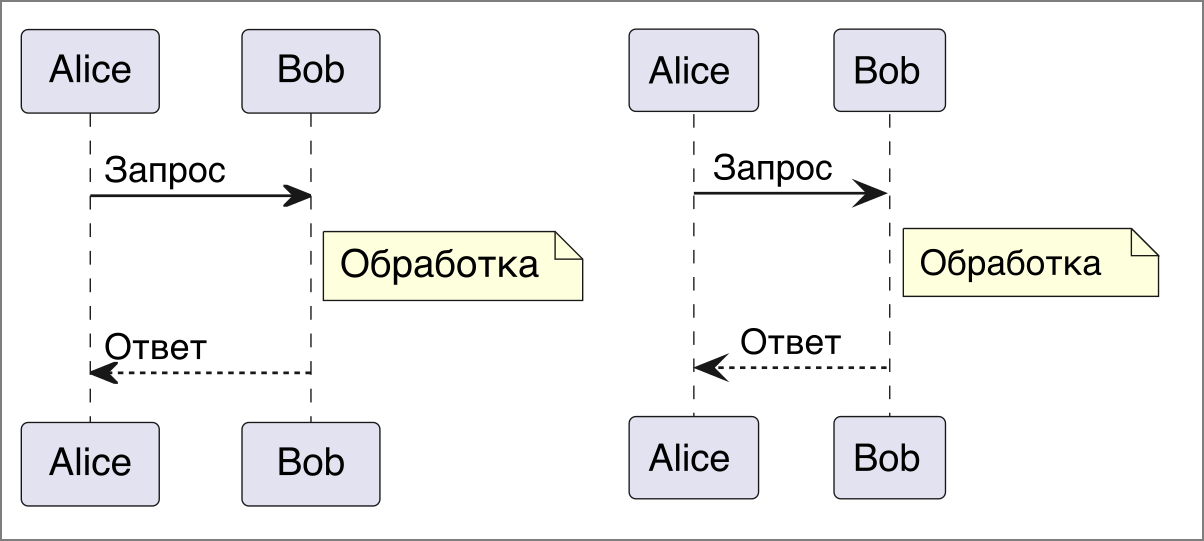
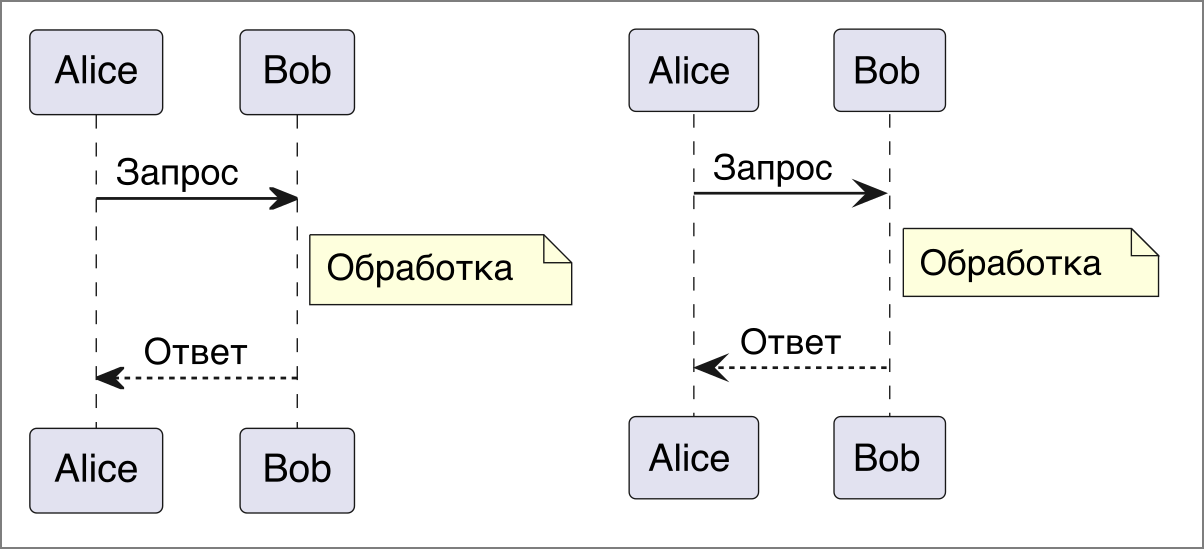
fix(sequence): рамки участников, поля, зазор и подписи сообщений
Сверка с ЖИВЫМ сервером: перезапросил все 20 эталонов, 18 совпали
побайтово, 2 отличались — и ровно в textLength нелатинских подписей
(«создаёт» 46.541 против 54.539, «☑ true» 33.182 против 45.732). Пять
повторных запросов дали одно и то же значение, совпадающее с нашим
расчётом: при снятии эталонов сервер не измерил эти глифы. Эталоны
перезапрошены.

Рамка участника ВСЕГДА равна «ширина текста + 14» — проверено на сервере
от одной буквы (23.58) до длинного кириллического имени (229.76).
Формула брала max(50, ...), поэтому Bob получал 50 вместо 41.057, а от
ширины рамки зависели и позиции линий жизни.

Левое поле 7 при внутреннем отступе движка 10 сдвигало viewBox на 3 и
уводило всё содержимое влево; теперь поля равны отступу.

Зазор между участниками: эталон держит 10 (проверено на сервере двумя
длинными именами и сообщением из одной буквы), у нас был порог 30 —
шаг в sequence_participants выходил 103.17 вместо 100.261.

Подписи сообщений: отступ 7 у стрелки слева направо и 17 у обратной —
наконечник занимает 10, подпись начинается за ним.

Текст примечания — кегль 13, а не тема 14. Подписи фигурных участников
смещены на 3 влево от оси, кружок boundary — на 8.5 вправо.

Baseline обновлён осознанно: gantt 1→0, json 2→0, sequence_simple 1→0,
sequence_fragments 3→2, сняты лишние подписи у er/gantt/object.
Выросли sequence_notes и sequence_participants — это запас холста,
а не геометрия: PlantUML добавляет справа 10, 16, 20 и 30 px в четырёх
[…]

diff --git a/crates/plantuml-renderer/src/svg_renderer.rs b/crates/plantuml-renderer/src/svg_renderer.rs
@@ -15,6 +15,22 @@ const FRAGMENT_BORDER: &str = "#000";
 /// Цвет заливки заголовка фрагмента в эталоне PlantUML.
 const FRAGMENT_HEADER_FILL: &str = "#EEE";
 
+/// Смещение кружка граничного элемента вправо от линии жизни.
+const BOUNDARY_CIRCLE_SHIFT: f64 = 8.5;
+
+/// Смещение подписи фигурного участника влево от его оси.
+const PARTICIPANT_ICON_LABEL_SHIFT: f64 = 3.0;
+
+/// Отступ подписи сообщения от левого конца стрелки.
+const MESSAGE_LABEL_INSET: f64 = 7.0;
+
+/// Длина наконечника стрелки: на столько подпись отодвигается от
+/// левого конца, если наконечник стоит именно слева.
+const MESSAGE_ARROW_HEAD: f64 = 10.0;
+
+/// Насколько подпись сообщения поднята над линией.
+const MESSAGE_LABEL_RISE: f64 = 5.0;
+
 /// Цвет начального и конечного узлов UML (PlantUML пишет `#222`, а не
 /// цвет границы темы: эталоны `activity_basic` и `state_simple` дают
 /// `fill="#222" stroke="#222"`).
@@ -250,7 +266,11 @@ impl SvgRenderer {
         /// на 206.125 при общей высоте 218, то есть поля 10 сверху и
         /// 11.875 снизу. Прежний профиль брал общие 7 — отсюда
         /// недобор высоты на 8 у всех sequence-диаграмм.
-        const SEQUENCE: (f64, f64, f64, f64) = (7.0, 10.0, 7.0, 11.875);
+        /// ЛЕВОЕ и ВЕРХНЕЕ поля равны внутреннему отступу движка (10):
+        /// только тогда `viewBox` начинается с нуля и рамка первого
+        /// участника стоит на x=10, как в эталоне. Прежние 7 сдвигали
+        /// содержимое на 3px влево — на картинке это заметно.
+        const SEQUENCE: (f64, f64, f64, f64) = (10.0, 10.0, 10.879, 11.875);
 
         /// ACTIVITY: измерено по эталону `activity_basic`.
         ///
@@ -299,7 +319,7 @@ impl SvgRenderer {
             // Снизу запас больше: подписи времени описываются
             // прямоугольником высотой в кегль НАД базисом, а у эталона
             // холст учитывает ещё и вынос строки под базисом (около 17).
-            Some("TIMING") => (7.0, 7.0, 12.0, 30.0),
+            Some("TIMING") => (7.0, 7.0, 12.0, 29.0),
             _ => DEFAULT,
         }
     }
@@ -1330,8 +1350,11 @@ impl SvgRenderer {
         } else {
             bottom - PARTICIPANT_LABEL_BASELINE_GAP
         };
+        // Подпись фигурных участников PlantUML смещает на 3 влево от оси:
+        // эталон `sequence_participants` даёт центр «Database» на 553.089
+        // при линии жизни 556.089 (у участника-рамки смещения нет).
         let text = svg::node::element::Text::new(label)
-            .set("x", cx)
+            .set("x", cx - PARTICIPANT_ICON_LABEL_SHIFT)
             .set("y", label_y)
             .set("text-anchor", "middle")
             .set("font-family", theme.font_family.as_str())
@@ -1504,6 +1527,10 @@ impl SvgRenderer {
         };
         let bracket_top = circle_cy - PARTICIPANT_ICON_RADIUS;
         let bracket_bottom = circle_cy + PARTICIPANT_ICON_RADIUS;
+        // Кружок сдвинут ВПРАВО от линии жизни: эталон
+        // `sequence_participants` даёт центр на 263.807 при линии 255.307,
+        // то есть +8.5, а перекладина доходит до его левого края.
+        let boundary_cx = cx + BOUNDARY_CIRCLE_SHIFT;
 
         let mut group = group;
         group = group.add(
@@ -1516,7 +1543,7 @@ impl SvgRenderer {
                         top = fmt(bracket_top),
                         bottom = fmt(bracket_bottom),
                         mid = fmt(circle_cy),
-                        left_of_circle = fmt(cx - PARTICIPANT_ICON_RADIUS),
+                        left_of_circle = fmt(boundary_cx - PARTICIPANT_ICON_RADIUS),
                     ),
                 )
                 .set("fill", "none")
@@ -1525,7 +1552,7 @@ impl SvgRenderer {
         );
         group = group.add(
             svg::node::element::Ellipse::new()
-                .set("cx", cx)
+                .set("cx", boundary_cx)
                 .set("cy", circle_cy)
                 .set("rx", PARTICIPANT_ICON_RADIUS)
                 .set("ry", PARTICIPANT_ICON_RADIUS)
@@ -1850,14 +1877,21 @@ impl SvgRenderer {
                 let text_x = points[0].x + 5.0;
                 (text_x, mid_y, "start")
             } else if is_horizontal {
-                // Горизонтальная стрелка (sequence diagrams)
+                // Горизонтальная стрелка (sequence diagrams).
+                //
+                // Отступ подписи от левого конца разный: у стрелки слева
+                // направо 7, у обратной — 17, потому что там наконечник
+                // занимает 10 и подпись начинается за ним. Эталон
+                // `sequence_simple`: «Authentication Request» на 40.833
+                // (33.833 + 7), «Authentication Response» на 50.833
+                // (33.833 + 17).
                 let is_left_to_right = dx > 0.0;
                 let left_x = if is_left_to_right {
-                    points[0].x + 5.0
+                    points[0].x + MESSAGE_LABEL_INSET
                 } else {
-                    points[1].x + 5.0
+                    points[1].x + MESSAGE_LABEL_INSET + MESSAGE_ARROW_HEAD
                 };
-                let top_y = points[0].y - 5.0;
+                let top_y = points[0].y - MESSAGE_LABEL_RISE;
                 (left_x, top_y, "start")
             } else {
                 // Fallback: середина первого сегмента

diff --git a/crates/plantuml-layout/src/sequence/engine.rs b/crates/plantuml-layout/src/sequence/engine.rs
@@ -17,7 +17,9 @@ const SELF_MESSAGE_LOOP_HEIGHT: f64 = 13.0;
 /// Отступ от петли self-message до текста сообщения.
 const SELF_MESSAGE_TEXT_GAP: f64 = 5.0;
 
-/// Цвет фона заметки в PlantUML.
+/// Кегль текста примечания (эталон `sequence_notes`: `font-size="13"`).
+const NOTE_FONT_SIZE: f64 = 13.0;
+
 /// Отступ текста примечания от левого края рамки.
 ///
 /// Измерено по эталону `sequence_notes`: рамка на x = 110.987,
@@ -729,8 +731,15 @@ impl SequenceLayoutEngine {
         // раздувало ширину: PlantUML отводит под стрелку примерно
         // `текст + 20`, и при 50 зазор всегда упирался в минимум.
         // 30 оставляет место между блоками, но не искажает раскладку.
-        let min_spacing = 30.0;
-        let mut spacing: Vec<f64> = vec![min_spacing; n - 1];
+        // Минимальный ЗАЗОР между рамками соседних участников.
+        //
+        // Проверено на сервере: два длинных имени и сообщение из одной
+        // буквы дают рамки 150.40 и 166.70 с зазором ровно 10.
+        let min_gap = 10.0;
+        // Начинаем с минимального зазора: требования сообщений только
+        // УВЕЛИЧИВАЮТ его, поэтому старт с 30 не давал опуститься ниже 30
+        // даже там, где эталон держит 27.
+        let mut spacing: Vec<f64> = vec![min_gap; n - 1];
 
         // Отслеживаем пары с ПРЯМЫМИ сообщениями
         let mut direct_pairs: std::collections::HashSet<usize> = std::collections::HashSet::new();
@@ -769,7 +778,11 @@ impl SequenceLayoutEngine {
                     // spacing >= required_length - (width_start + width_end) / 2
                     let half_widths =
                         (participant_widths[start_idx] + participant_widths[end_idx]) / 2.0;
-                    let required_spacing = (required_length - half_widths).max(min_spacing);
+                    // Прямое сообщение задаёт РАССТОЯНИЕ МЕЖДУ ЦЕНТРАМИ:
+                    // эталон `sequence_participants` держит шаг 100.261 при
+                    // любой ширине рамок, поэтому зазор может оказаться
+                    // меньше 30. Прежний порог 30 поднимал шаг до 103.17.
+                    let required_spacing = (required_length - half_widths).max(min_gap);
                     spacing[start_idx] = spacing[start_idx].max(required_spacing);
                     direct_pairs.insert(start_idx);
                 } else {
@@ -805,12 +818,10 @@ impl SequenceLayoutEngine {
             std::collections::HashMap::new();
         for i in 0..n - 1 {
             let key = format!("{}_{}", participant_order[i], participant_order[i + 1]);
-            // Для пар без прямых сообщений можно использовать меньший spacing
-            let final_spacing = if direct_pairs.contains(&i) {
-                spacing[i]
-            } else {
-                spacing[i].min(30.0) // минимум для промежуточных
-            };
+
+            // Пары без прямых сообщений уже ограничены сверху значением
+            // по умолчанию, отдельная ветка не нужна.
+            let final_spacing = spacing[i];
             spacing_map.insert(key, final_spacing);
         }
 
@@ -1534,6 +1545,10 @@ impl SequenceLayoutEngine {
         // центрировался и при длинной подписи выходил за рамку.
         properties.insert("text-align".to_string(), "left".to_string());
         properties.insert("text-inset".to_string(), NOTE_TEXT_INSET.to_string());
+        // Текст примечания PlantUML пишет кеглем 13, а не темой (14):
+        // эталон `sequence_notes` даёт `font-size="13"` и textLength 73.830
+        // против наших 79.509.
+        properties.insert("font-size".to_string(), NOTE_FONT_SIZE.to_string());
 
         let note_elem = LayoutElement {
             id: format!("note_{}", y as u32),

diff --git a/crates/plantuml-layout/src/sequence/config.rs b/crates/plantuml-layout/src/sequence/config.rs
@@ -102,10 +102,15 @@ impl SequenceLayoutConfig {
     ///
     /// В эталоне PlantUML: textLength="33.667" при width="47.667", то есть
     /// по 7px внутреннего отступа с каждой стороны.
+    ///
+    /// Минимальной ширины у PlantUML НЕТ: проверено на сервере, имя из
+    /// одной буквы даёт рамку 23.58, из двух — 33.18, «Alice» — 47.67,
+    /// кириллическое имя из 25 букв — 229.76, то есть всегда ровно
+    /// «ширина текста + 14». Прежний `max(participant_width = 50)` держал
+    /// все короткие имена в рамках на 50, из-за чего и позиции линий
+    /// жизни, и ширина диаграммы расходились с эталоном.
     pub fn participant_width_for_name(&self, name: &str) -> f64 {
-        let text_width =
-            self.text.width(name, self.participant_font_size) + PARTICIPANT_PADDING * 2.0;
-        self.participant_width.max(text_width)
+        self.text.width(name, self.participant_font_size) + PARTICIPANT_PADDING * 2.0
     }
 
     /// Вычисляет ширину текста сообщения с отступами
